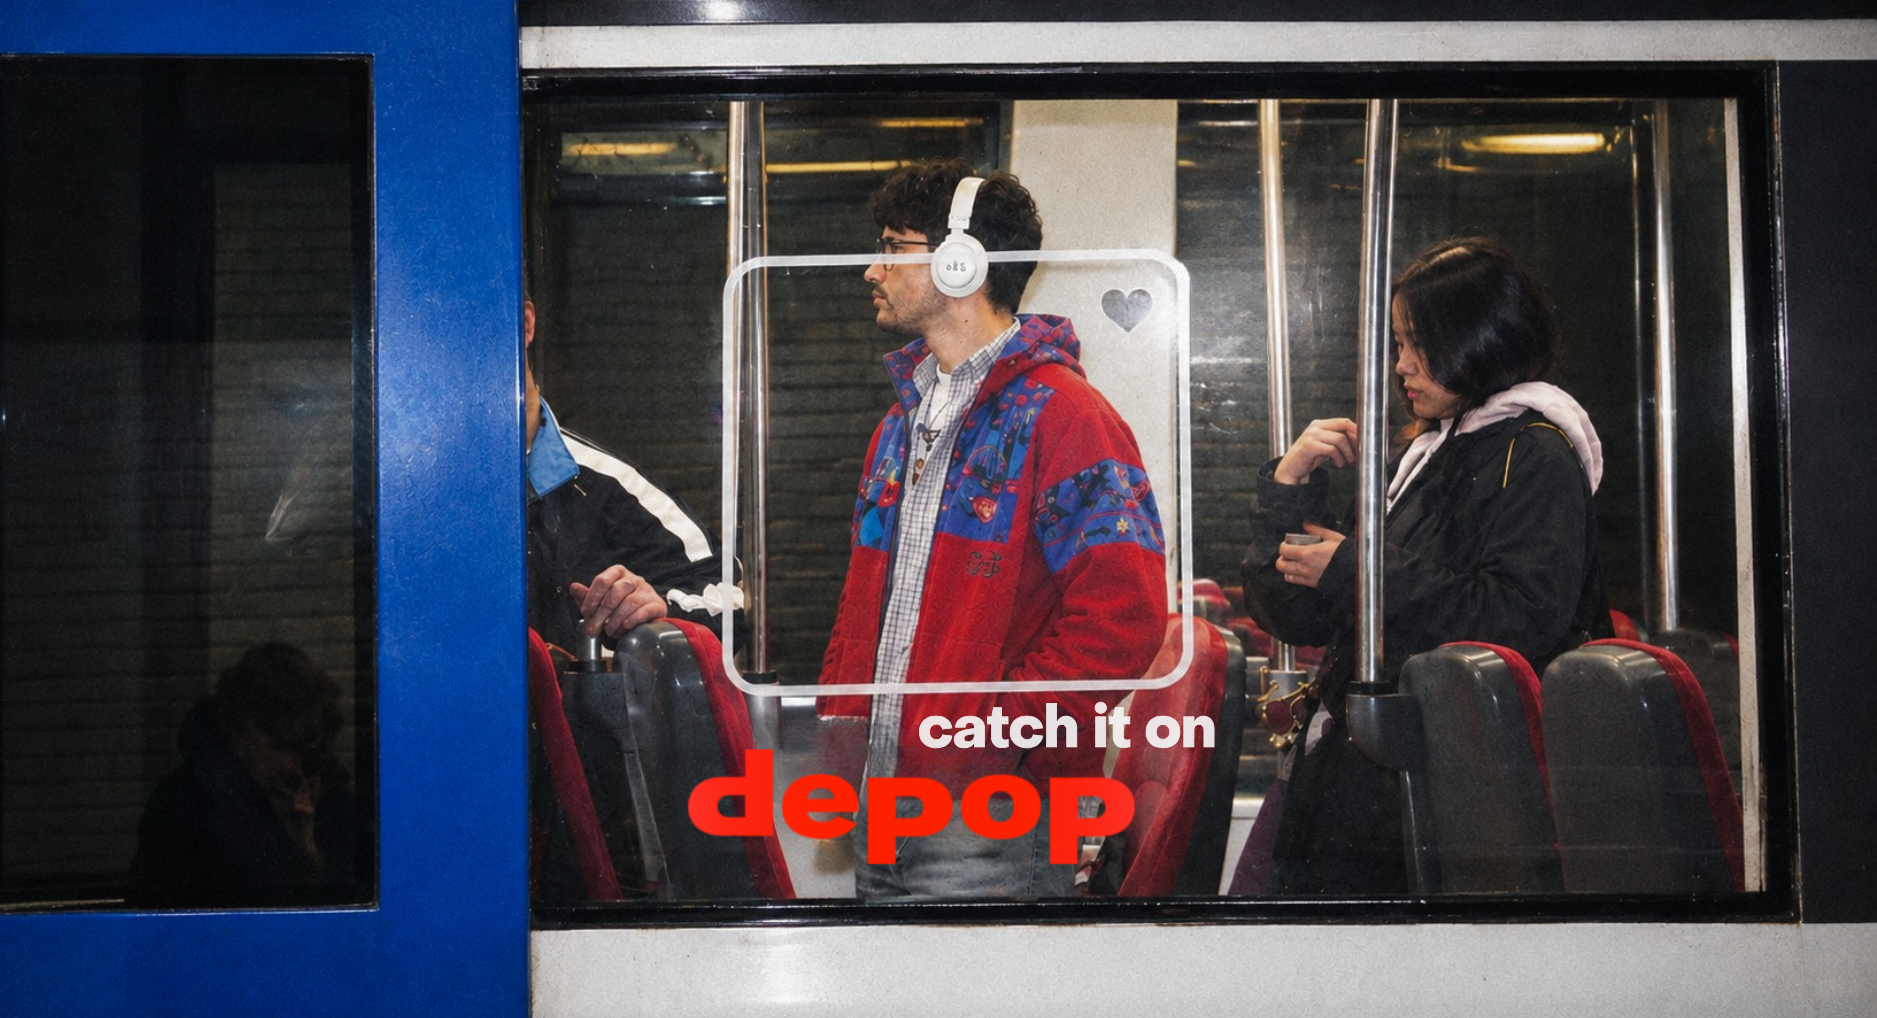
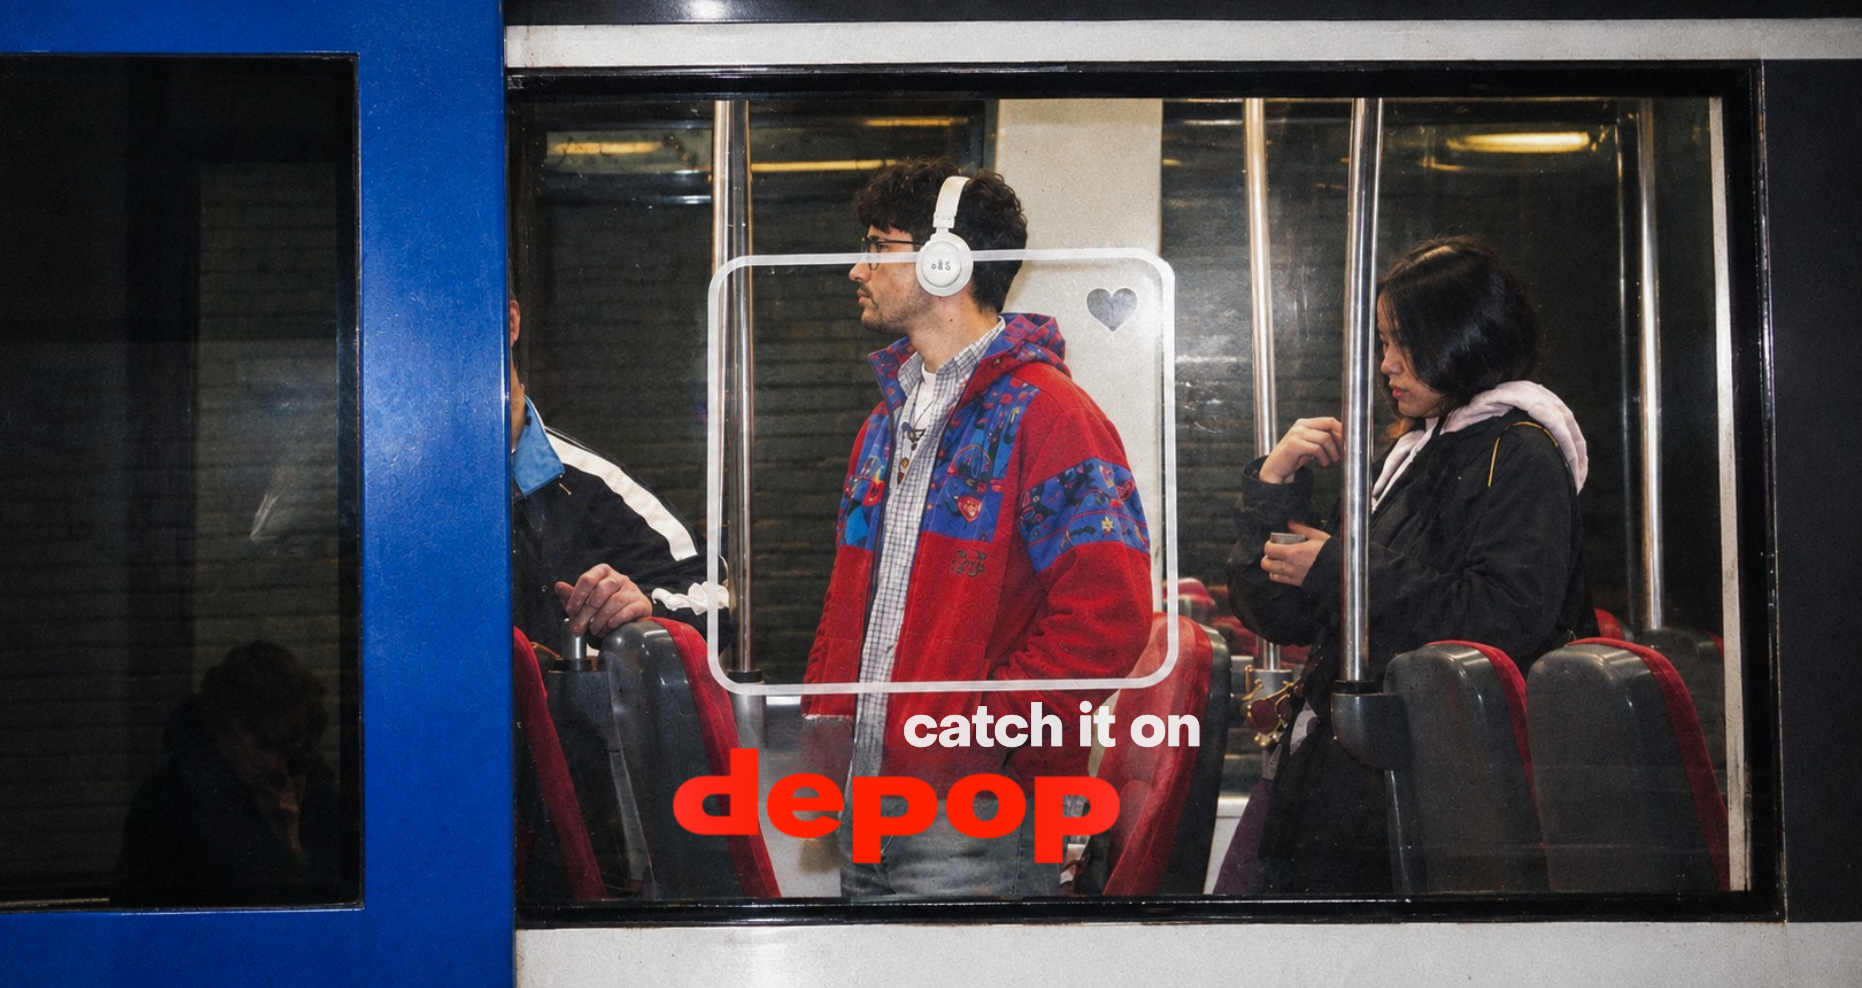
Add files via upload

diff --git a/depop.html b/depop.html
@@ -197,7 +197,7 @@
     position:absolute;
     width:18%;
     right:-12%;
-    bottom:-7%;
+    bottom:-11%;
     z-index:2;
   }
   @media (max-width:900px){
@@ -213,7 +213,7 @@
   .intro-copy{
     flex:0 0 auto;
     max-width:640px;
-    margin-top:50px;
+    margin-top:38px;
     font-weight:400;
     font-size:clamp(15px, 1.3vw, 15px);
     line-height:1.55;
@@ -233,7 +233,7 @@
     margin-bottom:22px;   /* extra space after the opening line */
   }
   .intro-copy p:not(:first-child){
-    font-size:14px;
+    font-size:16px;
   }
   .intro-copy .emphasis-line{
     display:inline-block;
@@ -244,7 +244,7 @@
   .intro-copy .bts-link{
     display:inline-block;
     margin-top:6px;
-    font-size:15px;
+    font-size:14px;
     transform:scaleX(1.10);
     transform-origin:left;
     text-decoration:underline;
@@ -256,7 +256,7 @@
     .project-title{ margin-bottom:40px; }   /* a bit more space under the title (laptop) */
     .carousel-banner{ padding-bottom:60px; }   /* a bit more space after the posters (laptop) */
     .footer-bg{ padding-top:104px; }   /* a bit more space between the posters and "This project was made with Liesbeth" (laptop) */
-    .intro{ margin-left:max(0px, calc(45.5vw - 388px)); margin-right:0; margin-top:6px; }   /* hero + text sit left of centre (laptop); 45.5vw = centre minus 4.5% */
+    .intro{ margin-left:max(0px, calc(47vw - 388px)); margin-right:0; margin-top:-4px; }   /* hero + text sit left of centre (laptop); 47vw = centre minus 3% */
     .intro{ padding-bottom:120px; }   /* pushes the white poster banner a bit lower (laptop) */
   }
 
